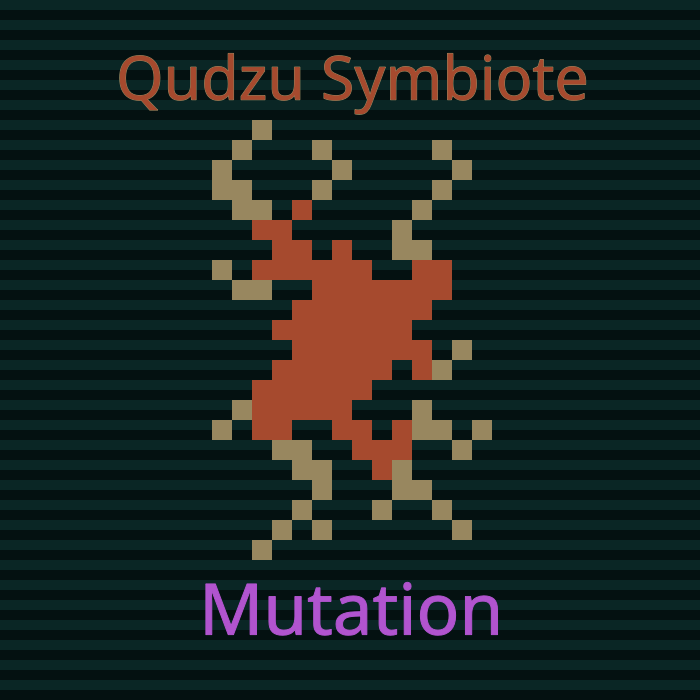
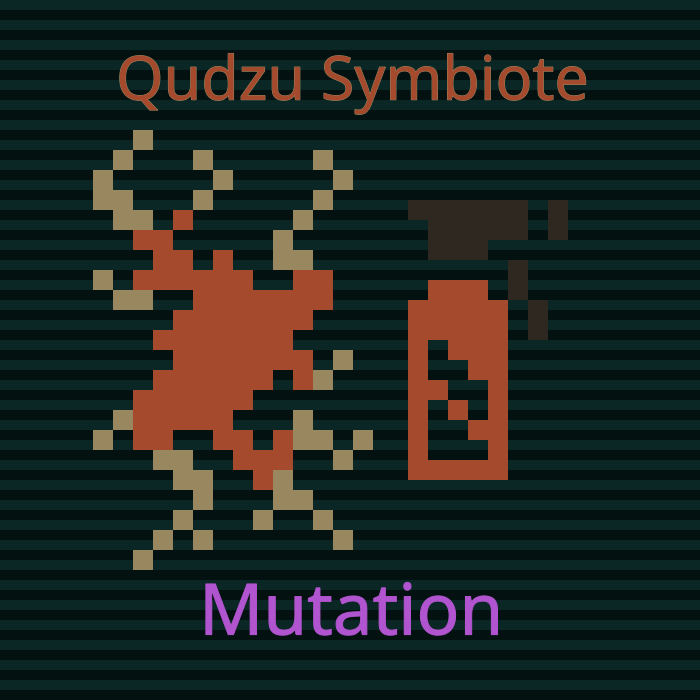
added rust-it spray foam

Changed region(s): [[0.12, 0.15, 0.81, 0.81]]

diff --git a/RustitSpray.cs b/RustitSpray.cs
@@ -1,0 +1,120 @@
+using System;
+using System.Collections.Generic;
+using XRL;
+using XRL.UI;
+using XRL.World;
+using XRL.World.Effects;
+using XRL.World.Parts;
+
+namespace XRL.World.Parts {
+    [Serializable]
+    public class RustitSpray : IPart {
+
+        public override bool SameAs(IPart p) {
+            return true;
+        }
+
+        public override bool WantEvent(int ID, int cascade) {
+            if (!base.WantEvent(ID, cascade)) {
+                return ID == InventoryActionEvent.ID;
+            }
+
+            return true;
+        }
+
+        public override bool HandleEvent(InventoryActionEvent E) {
+            if (E.Command == "Apply") {
+                if (!E.Actor.CheckFrozen(Telepathic: false, Telekinetic: true)) {
+                    return false;
+                }
+
+                if (E.Item.IsBroken() || E.Item.IsRusted()) {
+                    E.Actor.ShowFailure("The sprayer head won't move.");
+                    return false;
+                }
+
+                List<GameObject> inventoryAndEquipment = E.Actor.GetInventoryAndEquipment();
+                ProcessCellForTargets(E.Actor, E.Actor.CurrentCell, inventoryAndEquipment);
+                foreach (Cell localAdjacentCell in E.Actor.CurrentCell.GetLocalAdjacentCells()) {
+                    ProcessCellForTargets(E.Actor, localAdjacentCell, inventoryAndEquipment);
+                }
+
+                GameObject gameObject = PickItem.ShowPicker(inventoryAndEquipment, null, PickItem.PickItemDialogStyle.SelectItemDialog, E.Actor, null, null, null, PreserveOrder: false, null, ShowContext: true);
+                if (gameObject == null) {
+                    return false;
+                }
+
+                if (!gameObject.HasPart<Metal>() || !gameObject.FireEvent("ApplyRusted")) {
+                    Popup.Show("This item cannot be {{r|rusted}}");
+                    return false;
+                }
+
+                string Message = null;
+                int matterPhase = gameObject.GetMatterPhase();
+                if (matterPhase >= 3 || !gameObject.PhaseMatches(E.Actor)) {
+                    if (E.Actor.IsPlayer()) {
+                        Popup.Show("Pure {{r|rust} coats " + gameObject.t() + ".");
+                    }
+                }
+
+                else if (matterPhase == 2) {
+                    if (E.Actor.IsPlayer()) {
+                        Popup.Show("Some {{r|rust}} mixes in with " + gameObject.t() + ".");
+                    }
+
+                    gameObject.LiquidVolume?.MixWith(new LiquidVolume("salt", 1));
+                }
+
+                else {
+                    E.Actor.PlayWorldOrUISound("Sounds/StatusEffects/sfx_statusEffect_rusted");
+                    if (E.Actor.IsPlayer()) {
+                        if (gameObject == E.Actor) {
+                            Popup.Show("You are covered in {{r|rust}}!");
+                        }
+
+                        else {
+                            Popup.Show(gameObject.Does("are") + " covered in {{r|rust}}!");
+                        }
+
+                        ParentObject.MakeUnderstood(out Message);
+                    }
+
+                    gameObject.ApplyEffect(new Rusted());
+                }
+                ParentObject.Destroy();
+                if (!Message.IsNullOrEmpty()) {
+                    Popup.Show(Message);
+                }
+            }
+
+            return base.HandleEvent(E);
+        }
+
+        private void ProcessCellForTargets(GameObject Actor, Cell C, List<GameObject> Objects) {
+            if (C == null) {
+                return;
+            }
+
+            IList<GameObject> list;
+            if (!C.IsSolidFor(Actor)) {
+                IList<GameObject> objects = C.Objects;
+                list = objects;
+            }
+
+            else {
+                IList<GameObject> objects = C.GetCanInteractInCellWithSolidObjectsFor(Actor);
+                list = objects;
+            }
+
+            IList<GameObject> list2 = list;
+            int i = 0;
+            for (int count = list2.Count; i < count; i++) {
+                GameObject gameObject = list2[i];
+                Physics physics = gameObject.Physics;
+                if (physics != null && physics.IsReal && IComponent<GameObject>.Visible(gameObject) && gameObject.Render != null && gameObject.Render.RenderLayer > 0 && !Objects.Contains(gameObject) && gameObject != ParentObject) {
+                    Objects.Add(gameObject);
+                }
+            }
+        }
+    }
+}